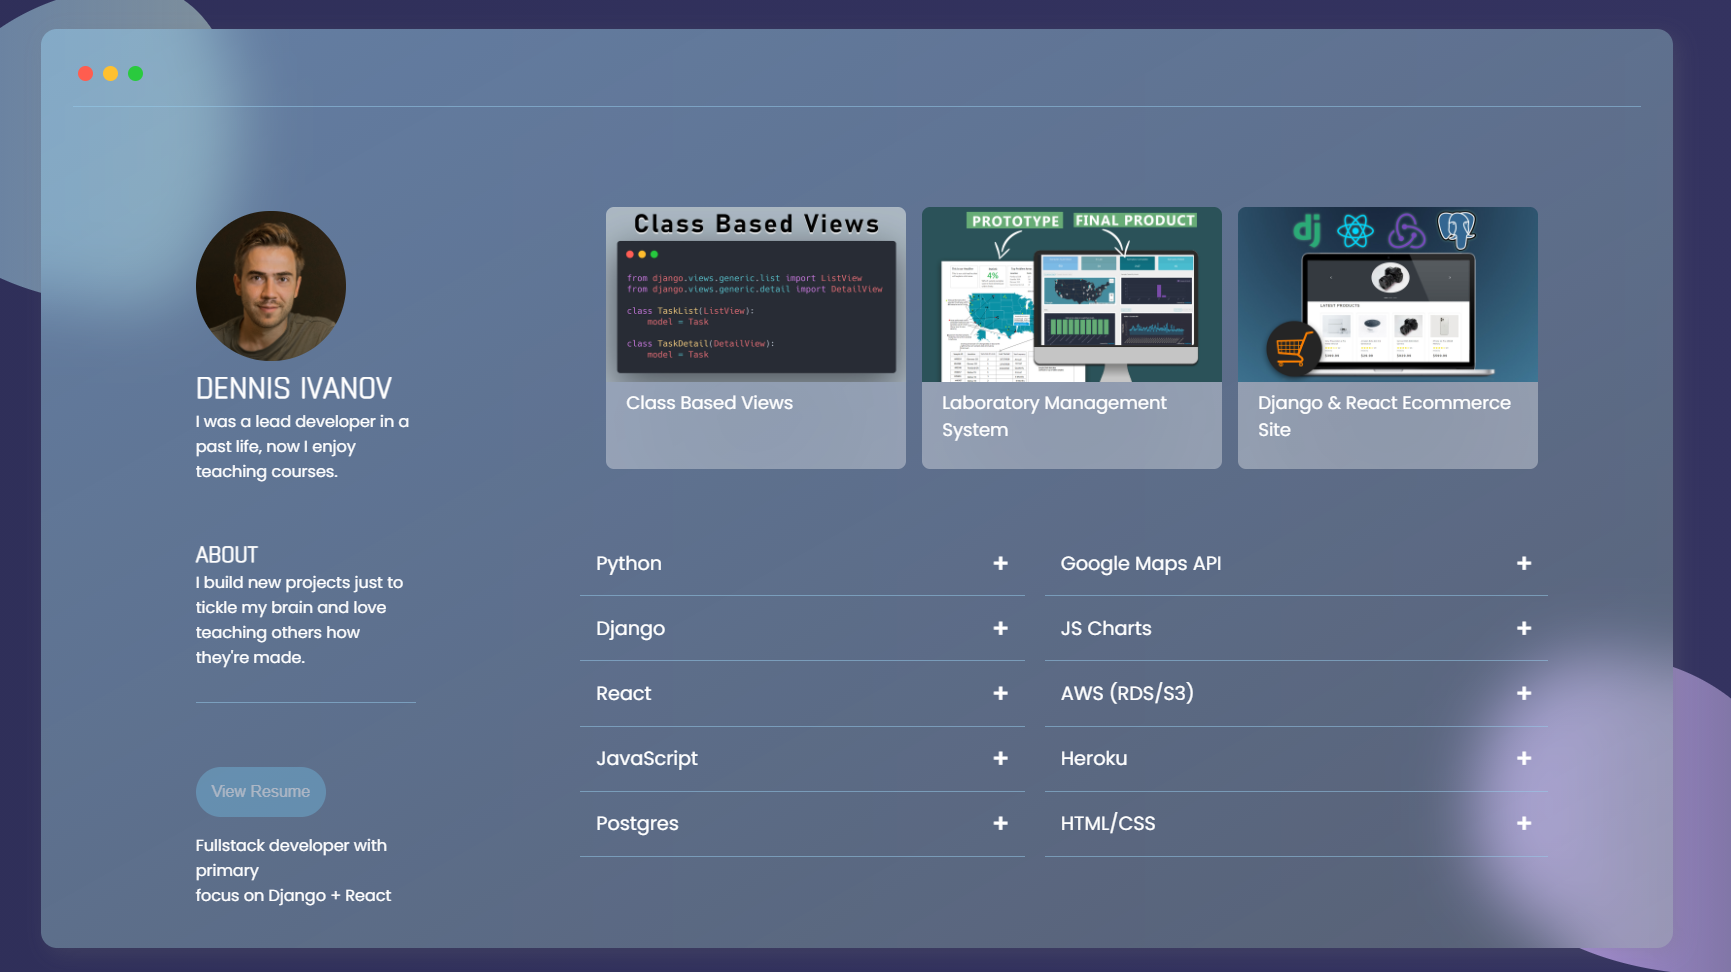
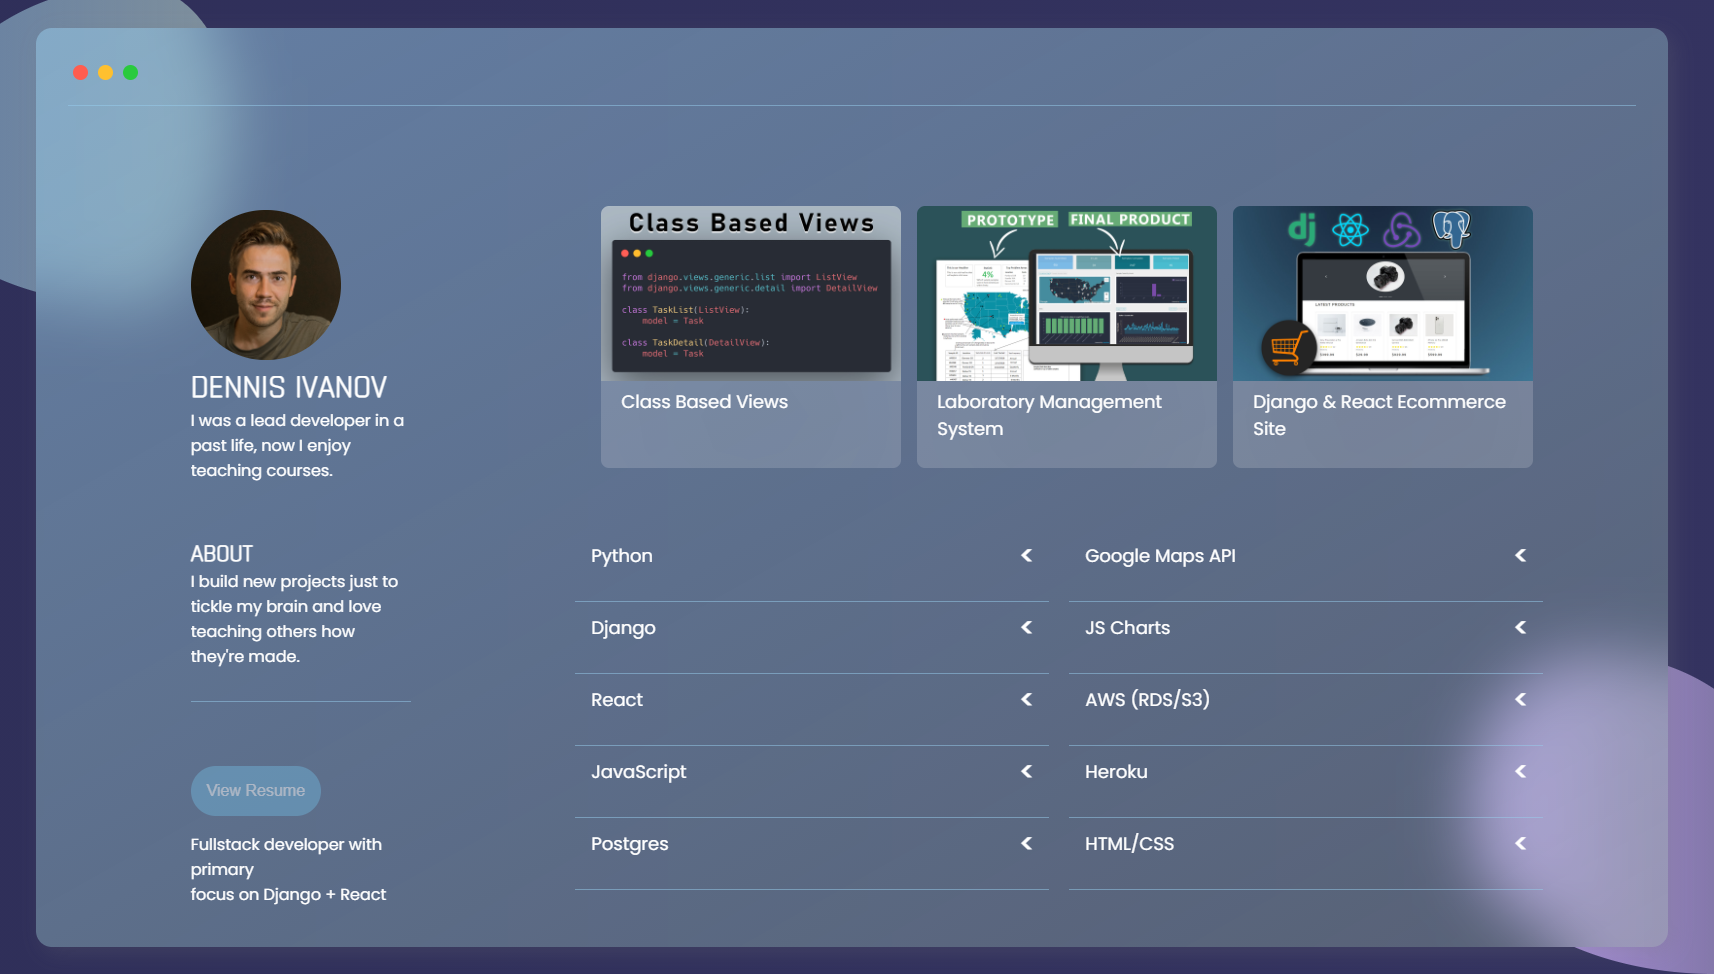
Modified Accordian

diff --git a/index.html b/index.html
@@ -49,11 +49,7 @@
 
 
 				<div class="content-container">
-					<div id='projects-title-wrapper'>
-						<img id="slideLeft" class="arrow" src="arrow.png">
 
-						<img id="slideRight" class="arrow" src="arrow.png">
-					</div>
 
 
 					<div id="scroll-container" class="projects-container">
@@ -83,61 +79,107 @@
 						<div class="skills-container1">
 
 							<div class="skill-wrapper">
-								<p class="dropbtn">Python</p>
-								<p class="expand-icon">&#43;</p>
+								<div class="skill-preview-wrapper">
+									<p class="skill">Python</p>
+									<p class="expand-icon">&#60;</p>
+								</div>
+
 								<div class="skill-detail">
-									<h1>Hidden Content</h1>
+									<p>Lorem Ipsum is simply dummy text of the printing.</p>
 								</div>
 							</div>
 
 							<div class="skill-wrapper">
-								<p class="dropbtn">Django</p>
-								<p class="expand-icon">&#43;</p>
+								<div class="skill-preview-wrapper">
+									<p class="skill">Django</p>
+									<p class="expand-icon">&#60;</p>
+								</div>
+								<div class="skill-detail">
+									<p>Lorem Ipsum is simply dummy text of the printing.</p>
+								</div>
 							</div>
 
 							<div class="skill-wrapper">
-								<p class="dropbtn">React</p>
-								<p class="expand-icon">&#43;</p>
+								<div class="skill-preview-wrapper">
+									<p class="skill">React</p>
+									<p class="expand-icon">&#60;</p>
+								</div>
+								<div class="skill-detail">
+									<p>Lorem Ipsum is simply dummy text of the printing.</p>
+								</div>
 							</div>
 
 							<div class="skill-wrapper">
-								<p class="dropbtn">JavaScript</p>
-								<p class="expand-icon">&#43;</p>
+								<div class="skill-preview-wrapper">
+									<p class="skill">JavaScript</p>
+									<p class="expand-icon">&#60;</p>
+								</div>
+								<div class="skill-detail">
+									<p>Lorem Ipsum is simply dummy text of the printing.</p>
+								</div>
 							</div>
 
 							<div class="skill-wrapper">
-								<p class="dropbtn">Postgres</p>
-								<p class="expand-icon">&#43;</p>
+								<div class="skill-preview-wrapper">
+									<p class="skill">Postgres</p>
+									<p class="expand-icon">&#60;</p>
+								</div>
+								<div class="skill-detail">
+									<p>Lorem Ipsum is simply dummy text of the printing.</p>
+								</div>
 							</div>
 						</div>
 
 						<div class="skills-container2">
 							<div class="skill-wrapper">
-								<p class="dropbtn">Google Maps API</p>
-								<p class="expand-icon">&#43;</p>
+								<div class="skill-preview-wrapper">
+									<p class="skill">Google Maps API</p>
+									<p class="expand-icon">&#60;</p>
+								</div>
+								<div class="skill-detail">
+									<p>Lorem Ipsum is simply dummy text of the printing.</p>
+								</div>
 							</div>
 
 							<div class="skill-wrapper">
-								<p class="dropbtn">JS Charts</p>
-								<p class="expand-icon">&#43;</p>
+								<div class="skill-preview-wrapper">
+									<p class="skill">JS Charts</p>
+									<p class="expand-icon">&#60;</p>
+								</div>
+								<div class="skill-detail">
+									<p>Lorem Ipsum is simply dummy text of the printing.</p>
+								</div>
+							</div>
+
+							<div class="skill-wrapper">
+								<div class="skill-preview-wrapper">
+									<p class="skill">AWS (RDS/S3)</p>
+									<p class="expand-icon">&#60;</p>
+								</div>
+								<div class="skill-detail">
+									<p>Lorem Ipsum is simply dummy text of the printing.</p>
+								</div>
+							</div>
+
+							<div class="skill-wrapper">
+								<div class="skill-preview-wrapper">
+									<p class="skill">Heroku</p>
+									<p class="expand-icon">&#60;</p>
+								</div>
+								<div class="skill-detail">
+									<p>Lorem Ipsum is simply dummy text of the printing.</p>
+								</div>
 
 							</div>
 
 							<div class="skill-wrapper">
-								<p class="dropbtn">AWS (RDS/S3)</p>
-								<p class="expand-icon">&#43;</p>
-
-							</div>
-
-							<div class="skill-wrapper">
-								<p class="dropbtn">Heroku</p>
-								<p class="expand-icon">&#43;</p>
-
-							</div>
-
-							<div class="skill-wrapper">
-								<p class="dropbtn">HTML/CSS</p>
-								<p class="expand-icon">&#43;</p>
+								<div class="skill-preview-wrapper">
+									<p class="skill">HTML/CSS</p>
+									<p class="expand-icon">&#60;</p>
+								</div>
+								<div class="skill-detail">
+									<p>Lorem Ipsum is simply dummy text of the printing.</p>
+								</div>
 							</div>
 						</div>
 					</div>
@@ -150,6 +192,8 @@
 	<div class="blob2"></div>
 
 
+
 </body>
+<script src="script.js" type="text/javascript"></script>
 
 </html>

diff --git a/style.css b/style.css
@@ -153,17 +153,6 @@ p{
 	transform: rotate(180deg);
 }
 
-.arrow{
-	height: 30px;
-	width: 30px;
-	margin: 20px;
-	display: none;
-}
-
-.arrow:hover{
-	cursor: pointer;
-	opacity: .7;
-}
 
 
 .projects-title{
@@ -244,8 +233,8 @@ p{
 }
 
 .project-card-body{
-	box-shadow: 6px 6px 20px rgba(122,122,122,0.2);
-	box-shadow: inset 0 0 2000px rgba(255, 255, 255, .4);
+	box-shadow: 6px 6px 20px rgba(122,122,122,0.1);
+	box-shadow: inset 0 0 2000px rgba(255, 255, 255, .2);
 
 
 	padding: 20px;
@@ -293,25 +282,31 @@ p{
 .skill-wrapper{
 	border-bottom: 1px solid rgba(152,205,237,0.5);
 	padding: 0.5em 1em;
+	
+}
+
+.skill{
+	font-size: 18px;
+}
+
+.skill-preview-wrapper{
 	display: flex;
 	justify-content: space-between;
 	align-items: center;
 }
 
-.dropbtn{
-	font-size: 1.2em;
-	border: 0;
-	padding: .5em 0;
-	color: #fff;
-}
 
-.dropbtn:hover < * {
-	color: chartreuse;
-	display: block;
-}
 
 .skill-detail{
-	display: none;
+	height: 0;
+	overflow: hidden;
+	margin-top: 20px;
+
+}
+
+.skill-detail p{
+
+	color: rgb(218, 216, 219);
 }
 
 

diff --git a/script.js b/script.js
@@ -1,0 +1,24 @@
+let toggleSkillBtns = document.getElementsByClassName('expand-icon')
+
+
+let toggleSkill = (index) => {
+    let detailWrapper = document.getElementsByClassName('skill-detail')[index]
+    let icon = document.getElementsByClassName('expand-icon')[index]
+
+    if (detailWrapper.style.height == 'auto') {
+        detailWrapper.style.height = 0
+        icon.style.transform = 'rotate(0deg)'
+    } else {
+        detailWrapper.style.height = 'auto'
+        icon.style.transform = 'rotate(-90deg)'
+    }
+
+
+
+    console.log('Detail Wrapper:', detailWrapper.style.height)
+}
+
+for (let i = 0; i < toggleSkillBtns.length; i++) {
+    let button = toggleSkillBtns[i]
+    button.addEventListener('click', () => toggleSkill(i))
+}
